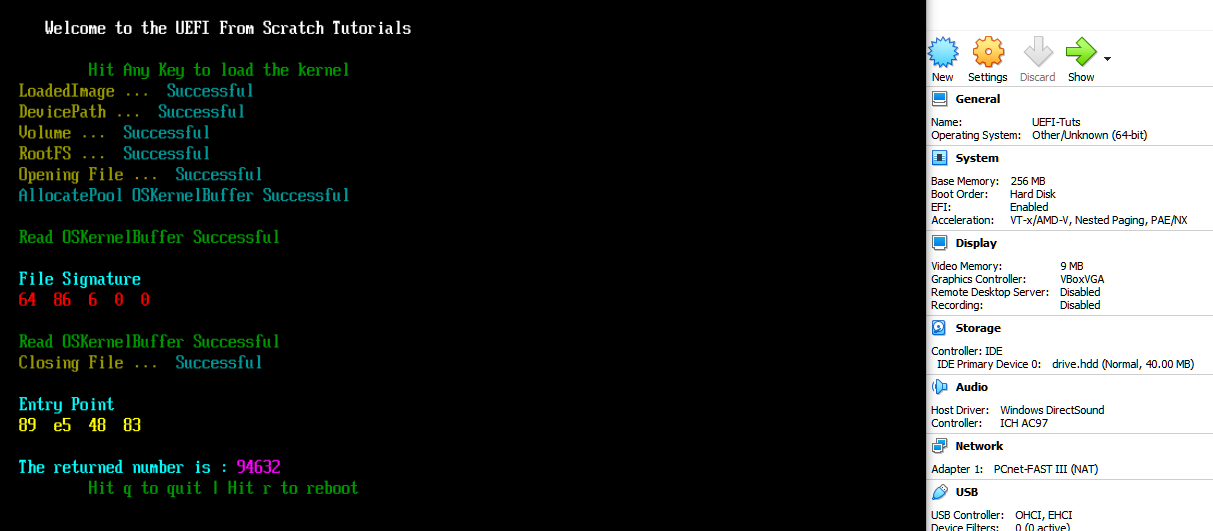
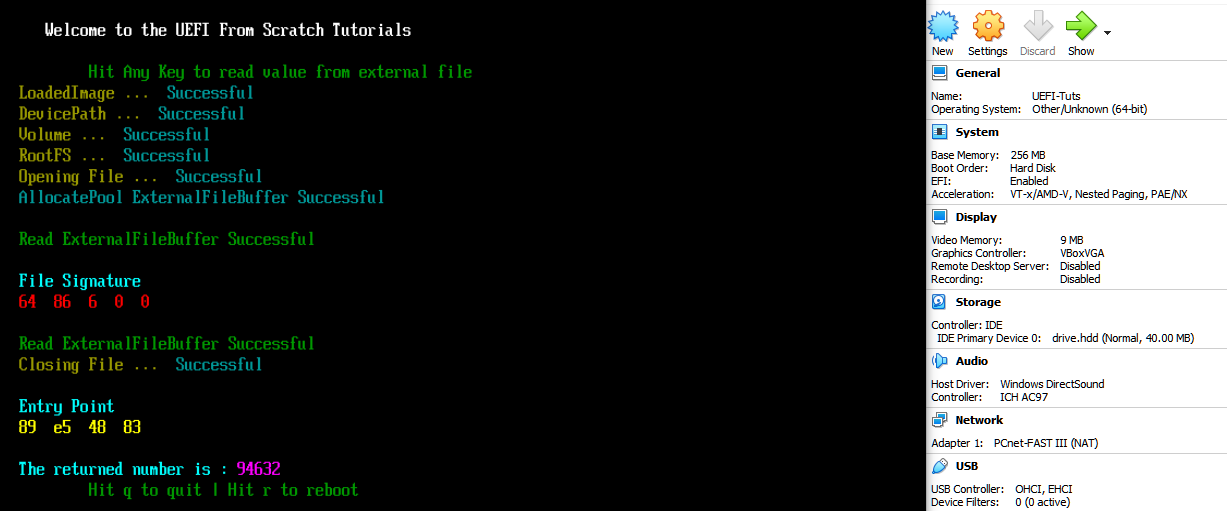
Read value from external file

diff --git a/README.md b/README.md
@@ -43,7 +43,7 @@
     - LOAD / OPEN / CLOSE VOLUME + FILE SYSTEM + FILES &nbsp; --- [YOUTUBE 15](https://www.youtube.com/watch?v=Zgiyy0Ysh08)  ---  [SOURCE CODE](https://github.com/ThatOSDev/UEFI-Tuts/tree/master/src/tutorial%2011)  
     - LOADED FILE TO BUFFER + READING IT &nbsp; &nbsp;&nbsp; &nbsp; &nbsp; &nbsp; &nbsp; &nbsp; &nbsp; &nbsp; &nbsp; &nbsp; &nbsp; &nbsp; --- [YOUTUBE 16](https://www.youtube.com/watch?v=rgDN0kTP-fY)  ---  [SOURCE CODE](https://github.com/ThatOSDev/UEFI-Tuts/tree/master/src/tutorial%2012)
     - CUSTOM FONT &nbsp; &nbsp; &nbsp; &nbsp; &nbsp; &nbsp; &nbsp; &nbsp; &nbsp; &nbsp; &nbsp; &nbsp; &nbsp; &nbsp; &nbsp; &nbsp; &nbsp; &nbsp; &nbsp; &nbsp; &nbsp; &nbsp; &nbsp; &nbsp; &nbsp; &nbsp; &nbsp; &nbsp; &nbsp; &nbsp; &nbsp; &nbsp; &nbsp;--- [YOUTUBE 17](https://www.youtube.com/watch?v=9YGmVDYyEVw)  ---  [SOURCE CODE](https://github.com/ThatOSDev/UEFI-Tuts/tree/master/src/tutorial%2013)
-	- RETURN VALUE FROM FILE &nbsp;&nbsp; &nbsp; &nbsp; &nbsp; &nbsp; &nbsp; &nbsp; &nbsp; &nbsp; &nbsp; &nbsp; &nbsp; &nbsp; &nbsp; &nbsp; &nbsp; &nbsp; &nbsp; &nbsp; &nbsp;--- [COMING SOON...]  ---  [SOURCE CODE](https://github.com/ThatOSDev/UEFI-Tuts/tree/master/src/tutorial%2014)
+	- RETURN VALUE FROM FILE &nbsp; &nbsp;&nbsp; &nbsp; &nbsp; &nbsp; &nbsp; &nbsp; &nbsp; &nbsp; &nbsp; &nbsp; &nbsp; &nbsp; &nbsp; &nbsp; &nbsp; &nbsp; &nbsp; &nbsp; &nbsp; &nbsp; &nbsp;--- [COMING SOON...]  ---  [SOURCE CODE](https://github.com/ThatOSDev/UEFI-Tuts/tree/master/src/tutorial%2014)
 
 More Tuts Coming soon... ( **NOTE : The order of this list is subject to change** )  
 
